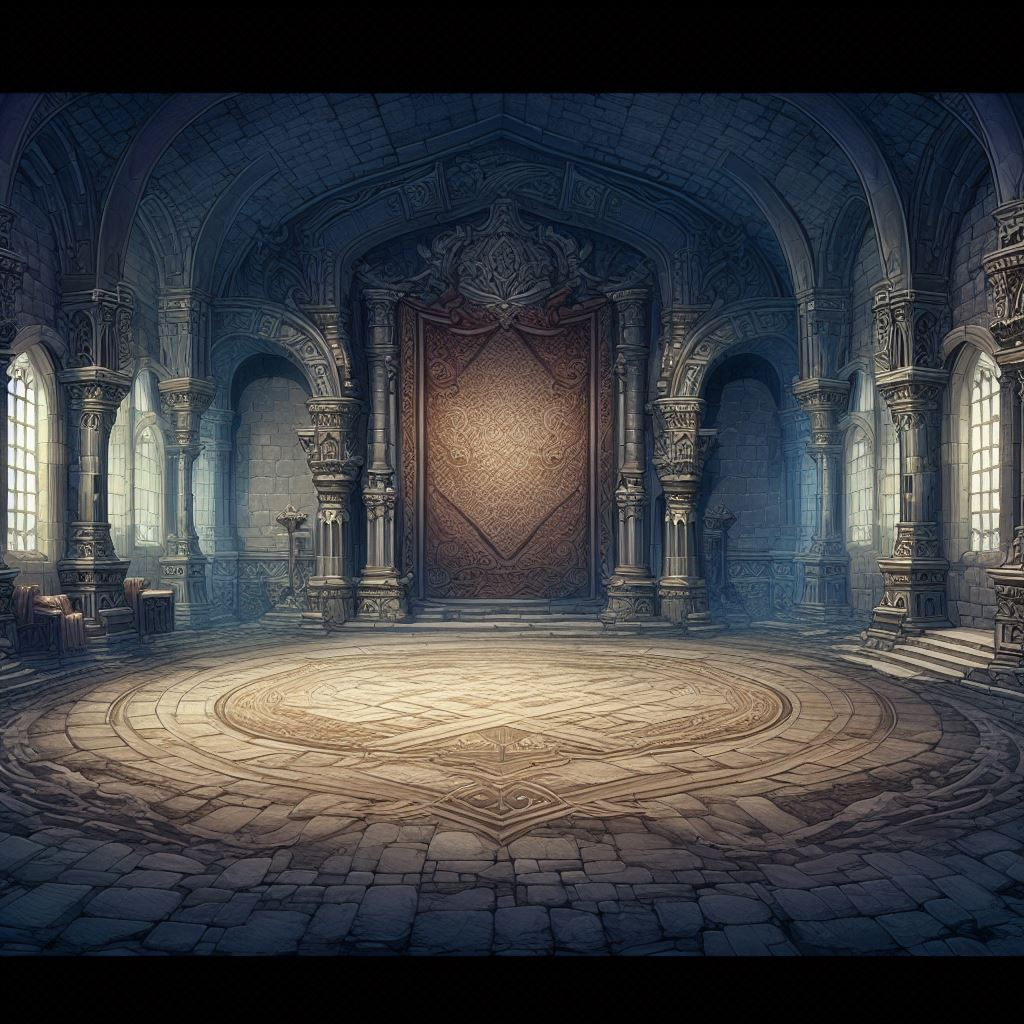
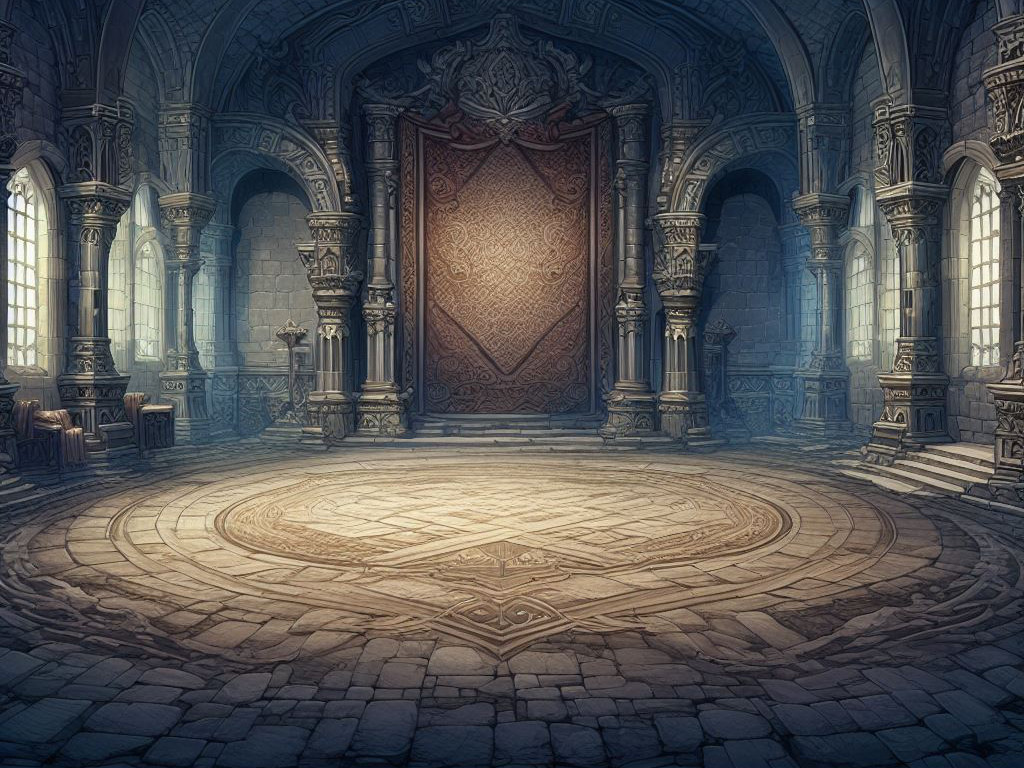
wp refactoring scenes

diff --git a/app/src/Scenes/Skirmish/SkirmishScene.ts b/app/src/Scenes/Skirmish/SkirmishScene.ts
@@ -1,0 +1,195 @@
+import Phaser from "phaser";
+import { listeners, index } from "../../Models/Signals";
+import { preload } from "./preload";
+import { Unit, makeUnit } from "../../Models/Unit";
+
+const sqdA = [
+	{
+		pos: { x: 1, y: 0 },
+		unit: makeUnit()
+	},
+	{
+		pos: { x: 1, y: 1 },
+		unit: makeUnit()
+	},
+	{
+		pos: { x: 1, y: 2 },
+		unit: makeUnit()
+	},
+	{
+		pos: { x: 0, y: 0 },
+		unit: makeUnit()
+	},
+	{
+		pos: { x: 0, y: 1 },
+		unit: makeUnit()
+	},
+]
+const sqdB = [
+	{
+		pos: { x: 1, y: 0 },
+		unit: { ...makeUnit(), force: "CPU" }
+	},
+	{
+		pos: { x: 1, y: 1 },
+		unit: { ...makeUnit(), force: "CPU" }
+	},
+	{
+		pos: { x: 1, y: 2 },
+		unit: { ...makeUnit(), force: "CPU" }
+	},
+	{
+		pos: { x: 0, y: 0 },
+		unit: { ...makeUnit(), force: "CPU" }
+	},
+	{
+		pos: { x: 0, y: 1 },
+		unit: { ...makeUnit(), force: "CPU" }
+	},
+]
+
+class SkirmishScene extends Phaser.Scene {
+	bg: Phaser.GameObjects.Image | null = null;
+	charas: Phaser.GameObjects.Image[] = [];
+	units: Unit[] = [];
+	constructor() {
+		super("SkirmishScene");
+
+		console.log("SkirmishScene constructor")
+		listeners([
+		]);
+
+	}
+
+
+	preload = preload;
+	create = () => {
+
+		this.bg = this.add.image(0, 0, "bgs/castle").setOrigin(0, 0);
+
+		const a = this.renderSquad(sqdA, true)
+		const b = this.renderSquad(sqdB, false)
+
+		this.children.sort("y")
+
+		this.units = [...sqdA, ...sqdB].map(spec => spec.unit)
+		this.charas = [...a, ...b]
+
+		this.combat();
+
+		//@ts-ignore
+		window.skirmish = this
+	}
+
+
+	update() {
+	}
+
+
+	renderSquad(units: { pos: { x: number, y: number }, unit: Unit }[], isLeft: boolean) {
+		return units.map(spec => {
+
+			const baseX = isLeft ? 200 : 850;
+			const baseY = 450
+			const spacingX = 150
+			const spacingY = 100
+			const diagonalOffset = isLeft ? 50 : -50
+			const backOffset = 0
+
+			const sprite = createSpineBody(this,
+				baseX + (spec.pos.x * spacingX) - (spec.pos.y * diagonalOffset) - (!isLeft && spec.pos.x === 1 ? 300 : 0),
+				baseY + (spec.pos.y * spacingY) + (spec.pos.x === 0 ? backOffset : 0),
+				spec.unit).setName(spec.unit.id)
+			const scale = 0.3
+			sprite.setScale(isLeft ? -scale : scale, scale)
+
+			return sprite
+		})
+	}
+
+	combat() {
+
+		const initiative = this.units.map(unit => {
+			return {
+				unit,
+				initiative: Math.random()
+			}
+		}).sort((a, b) => b.initiative - a.initiative)
+
+		const turn = 0;
+
+		const combat = {
+			turn,
+			initiative,
+			actions: []
+		}
+
+		this.turn(combat)
+
+	}
+
+	turn(combat: { turn: number, initiative: { unit: Unit, initiative: number }[], actions: any[] }) {
+
+
+		const currentUnit = combat.initiative[combat.turn].unit
+
+		const target = this.units.filter(unit => unit.force !== currentUnit.force)[0]
+
+		console.log(currentUnit, target)
+
+		const isLeft = currentUnit.force === "PLAYER"
+
+		const activeUnitSprite = this.charas.find(chara => chara.name === currentUnit.id)
+		const targetUnitSprite = this.charas.find(chara => chara.name === target.id)
+
+		if (!activeUnitSprite || !targetUnitSprite) return
+
+		const sourceX = activeUnitSprite.x
+		const sourceY = activeUnitSprite.y
+
+		this.tweens.add({
+			targets: activeUnitSprite,
+			x: targetUnitSprite.x + (isLeft ? -100 : 100),
+			y: targetUnitSprite.y,
+			duration: 1000,
+			ease: 'Power2',
+			onComplete: () => {
+
+				this.tweens.add({
+					targets: activeUnitSprite,
+					x: sourceX,
+					y: sourceY,
+					duration: 1000,
+					ease: 'Power2',
+					onComplete: () => {
+						combat.turn++
+						if (combat.turn < combat.initiative.length) {
+							this.turn(combat)
+						}
+					}
+				});
+
+			}
+		});
+
+
+	}
+
+}
+function createSpineBody(scene: Phaser.Scene, x: number, y: number, unit: Unit) {
+	const spine: Phaser.GameObjects.Image = scene
+		//@ts-ignore
+		.add.spine(x, y, "spine-data", "spine-atlas");
+	spine.scale = 0.4;
+
+	//@ts-ignore
+	spine.skeleton.setSkinByName(unit.job);
+	//@ts-ignore
+	spine.animationState.setAnimation(0, "idle", true);
+	spine.setName(unit.id);
+	return spine;
+}
+
+export default SkirmishScene;
+
+

diff --git a/app/src/Scenes/Battleground/BattlegroundScene.ts b/app/src/Scenes/Battleground/BattlegroundScene.ts
@@ -1,7 +1,6 @@
 import Phaser from "phaser";
 import { preload } from "./preload";
 import { createMap } from "./Map/createMap";
-import { BGState, initialState } from "./BGState";
 import { importMapObjects } from "./Map/importMapObjects";
 import { makeMapInteractive } from "./Map/makeMapInteractive";
 import { createMapSquads } from "./Map/createMapSquads";
@@ -15,12 +14,12 @@ import { WindowVec } from "../../Models/Misc";
 import { Chara, chara } from "./chara";
 import { emit, index, listeners } from "../../Models/Signals";
 import { FORCE_ID_CPU, FORCE_ID_PLAYER } from "../../Models/Force";
+import { BGState, getState } from "./BGState";
 
 const easystar = new Easystar.js();
 easystar.setAcceptableTiles([0])
 
 export class BattlegroundScene extends Phaser.Scene {
-  state: BGState;
   graphics: Phaser.GameObjects.Graphics | null = null;
   path = { t: 0, vec: new Phaser.Math.Vector2() }
   points: Phaser.Math.Vector2[] = []
@@ -39,10 +38,10 @@ export class BattlegroundScene extends Phaser.Scene {
   layerCollider: Phaser.Physics.Arcade.Collider | null = null;
   squadsCanMove: boolean = true;
   cursor: Phaser.GameObjects.Image | null = null;
+  state: BGState;
 
   constructor() {
     super("BattlegroundScene");
-    this.state = initialState
 
     listeners([
       [index.PAUSE_PHYSICS, this.pausePhysics],
@@ -56,12 +55,17 @@ export class BattlegroundScene extends Phaser.Scene {
       [index.SQUADS_COLLIDED, this.handleSquadsCollided],
     ]);
 
+    this.state = getState()
+
 
     //@ts-ignore
     window.state = this.state
   }
 
   handleSquadsCollided = (squadAId: string, squadBId: string) => {
+
+    this.scene.stop()
+    this.scene.start("SkirmishScene")
 
     this.squadsCanMove = false;
 
@@ -229,6 +233,8 @@ export class BattlegroundScene extends Phaser.Scene {
     spriteA: Phaser.Types.Physics.Arcade.ImageWithDynamicBody,
     spriteB: Phaser.Types.Physics.Arcade.ImageWithDynamicBody,
   ) {
+
+    this.scene.resume()
 
     this.charas.forEach(chara => chara.body.setVelocity(0, 0))
 

diff --git a/app/src/index.tsx b/app/src/index.tsx
@@ -11,8 +11,15 @@ import 'bootstrap/dist/css/bootstrap.min.css';
 import Battleground from './UI/Battleground/Battleground';
 import events from 'events';
 import BattlegroundScene from './Scenes/Battleground/BattlegroundScene';
+import SkirmishScene from './Scenes/Skirmish/SkirmishScene';
+import { initialState } from './Scenes/Battleground/BGState';
 
 const eventEmitter = new events.EventEmitter();
+
+const state = initialState
+
+//@ts-ignore
+window.state = state;
 
 //@ts-ignore
 window.emitter = eventEmitter;
@@ -52,7 +59,6 @@ const game = new Phaser.Game({
     default: 'arcade',
   },
   scene: [
-    new BattlegroundScene()
   ],
   plugins: {
     scene: [
@@ -61,6 +67,9 @@ const game = new Phaser.Game({
     ]
   }
 });
+
+game.scene.add('BattlegroundScene', BattlegroundScene, true);
+game.scene.add('SkirmishScene', SkirmishScene, false);
 
 //window resize event
 window.addEventListener('resize', () => {

diff --git a/app/src/Scenes/Skirmish/preload.ts b/app/src/Scenes/Skirmish/preload.ts
@@ -1,0 +1,12 @@
+import Phaser from "phaser";
+
+export function preload(this: Phaser.Scene) {
+	["bgs/castle", "bgs/forest"].forEach(bg => {
+		this.load.image(bg, `assets/${bg}.jpeg`);
+
+	});
+	//@ts-ignore
+	this.load.spineBinary("spine-data", "assets/spine/_base/skeleton.skel");
+	//@ts-ignore
+	this.load.spineAtlas("spine-atlas", "assets/spine/_base/skeleton.atlas");
+}

diff --git a/app/src/UI/Battleground/SelectedEntity/styles.css b/app/src/UI/Battleground/SelectedEntity/styles.css
@@ -4,8 +4,10 @@
 }
 
 #selected-entity img {
-	border-width: 4px;
+	margin-right: 6px;
+	border-width: 3px;
 	border-style: solid;
-	border-image: linear-gradient(134deg, #868686, black) 1;
-	outline: black solid 2px;
+	outline: #565656 solid 2px;
+	border-radius: 50%;
+	border-color: #857939;
 }

diff --git a/app/src/Models/Unit.ts b/app/src/Models/Unit.ts
@@ -13,9 +13,9 @@ export const makeUnit = (): Unit => {
 	return {
 		id: uuid.v4(),
 		name: uuid.v4().slice(0, 8),
-		job: "",
+		job: "knight",
 		squad: null,
-		force: null
+		force: "PLAYER"
 	}
 }
 
